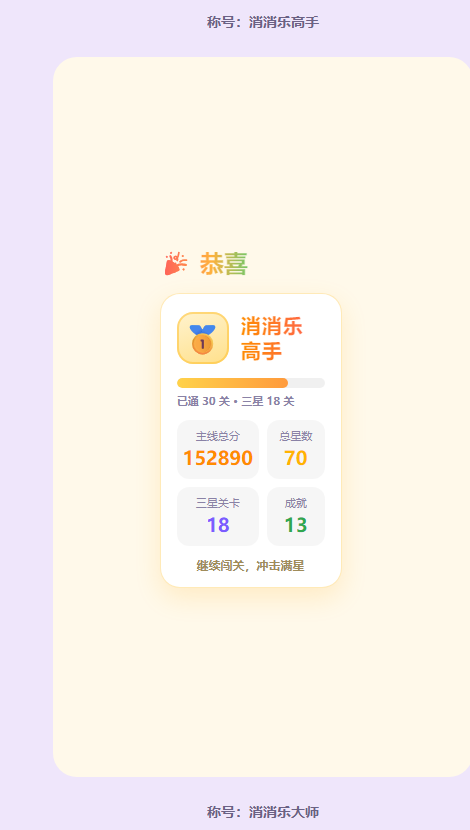
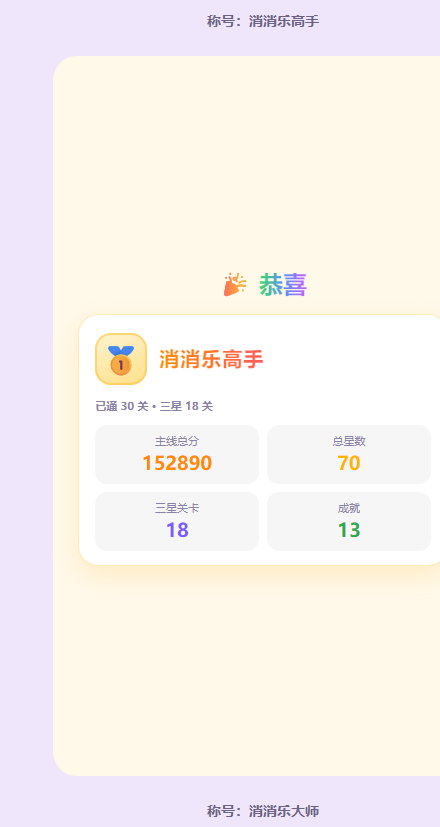
Update files

diff --git a/index.html b/index.html
@@ -12,8 +12,8 @@
 <link rel="preload" as="image" type="image/webp" href="./assets/4.webp">
 <link rel="preload" as="image" type="image/webp" href="./assets/5.webp">
 <link rel="preload" as="image" type="image/png" href="./assets/nailong.png">
-<link rel="stylesheet" href="./css/style.css?v=20261108j">
-<link rel="stylesheet" href="./css/themes.css?v=20261108j">
+<link rel="stylesheet" href="./css/style.css?v=20261108k">
+<link rel="stylesheet" href="./css/themes.css?v=20261108k">
 </head>
 <body data-theme="grass" data-view="menu">
 <div class="game-container">
@@ -760,24 +760,20 @@
 
   <!-- 🎉 恭喜：主线成绩单（关卡记录右下角「结算」键随时可看） -->
   <div class="overlay" id="game-complete" style="display:none;">
-    <div class="master-stage">
-      <h2 class="title small">🎉 恭喜</h2>
-      <div class="master-card">
-        <div class="master-head">
-          <span class="master-crown" id="master-crown">🌱</span>
-          <div class="master-title-box">
-            <b id="master-title">消消乐学徒</b>
-          </div>
+    <h2 class="title small">🎉 恭喜</h2>
+    <div class="master-card">
+      <div class="master-head">
+        <span class="master-crown" id="master-crown">🌱</span>
+        <div class="master-title-box">
+          <b id="master-title">消消乐学徒</b>
         </div>
-        <div class="master-bar"><span id="master-bar-fill"></span></div>
-        <p class="master-progress" id="master-progress">已通 0 关 · 三星 0 关</p>
-        <div class="master-grid">
-          <div class="master-item"><span>主线总分</span><b id="complete-total-score">0</b></div>
-          <div class="master-item"><span>总星数</span><b id="complete-total-stars">0</b></div>
-          <div class="master-item"><span>三星关卡</span><b id="master-perfect">0</b></div>
-          <div class="master-item"><span>成就</span><b id="master-ach">0</b></div>
-        </div>
-        <p class="master-foot" id="master-foot">继续闯关，冲击满星</p>
+      </div>
+      <p class="master-progress" id="master-progress">已通 0 关 · 三星 0 关</p>
+      <div class="master-grid">
+        <div class="master-item"><span>主线总分</span><b id="complete-total-score">0</b></div>
+        <div class="master-item"><span>总星数</span><b id="complete-total-stars">0</b></div>
+        <div class="master-item"><span>三星关卡</span><b id="master-perfect">0</b></div>
+        <div class="master-item"><span>成就</span><b id="master-ach">0</b></div>
       </div>
     </div>
   </div>
@@ -974,22 +970,22 @@
   </div>
 </div>
 
-<script src="./js/rng.js?v=20261108j"></script>
-<script src="./js/storage.js?v=20261108j"></script>
-<script src="./js/audio.js?v=20261108j"></script>
-<script src="./js/effects.js?v=20261108j"></script>
-<script src="./js/specials.js?v=20261108j"></script>
-<script src="./js/goals.js?v=20261108j"></script>
-<script src="./js/tasks.js?v=20261108j"></script>
-<script src="./js/mail.js?v=20261108j"></script>
-<script src="./js/input.js?v=20261108j"></script>
-<script src="./js/builtin-music.js?v=20261108j"></script>
-<script src="./js/music.js?v=20261108j"></script>
-<script src="./js/meta.js?v=20261108j"></script>
-<script src="./js/cloud-config.js?v=20261108j"></script>
-<script src="./js/cloud.js?v=20261108j"></script>
-<script src="./js/account.js?v=20261108j"></script>
-<script src="./js/board.js?v=20261108j"></script>
-<script src="./js/game.js?v=20261108j"></script>
+<script src="./js/rng.js?v=20261108k"></script>
+<script src="./js/storage.js?v=20261108k"></script>
+<script src="./js/audio.js?v=20261108k"></script>
+<script src="./js/effects.js?v=20261108k"></script>
+<script src="./js/specials.js?v=20261108k"></script>
+<script src="./js/goals.js?v=20261108k"></script>
+<script src="./js/tasks.js?v=20261108k"></script>
+<script src="./js/mail.js?v=20261108k"></script>
+<script src="./js/input.js?v=20261108k"></script>
+<script src="./js/builtin-music.js?v=20261108k"></script>
+<script src="./js/music.js?v=20261108k"></script>
+<script src="./js/meta.js?v=20261108k"></script>
+<script src="./js/cloud-config.js?v=20261108k"></script>
+<script src="./js/cloud.js?v=20261108k"></script>
+<script src="./js/account.js?v=20261108k"></script>
+<script src="./js/board.js?v=20261108k"></script>
+<script src="./js/game.js?v=20261108k"></script>
 </body>
 </html>

diff --git a/js/tasks.js b/js/tasks.js
@@ -6,19 +6,16 @@
   'use strict';
 
   const POOL = [
-    // 简单 20 金币
-    { id: 'win1', desc: '通过 1 关', target: 1, reward: 20, event: 'win' },
+    { id: 'match4', desc: '完成 3 次 4 连消除', target: 3, reward: 80, event: 'match4' },
+    { id: 'bomb', desc: '触发 2 次炸弹', target: 2, reward: 80, event: 'bomb' },
+    { id: 'combo4', desc: '单局连击达到 x4', target: 1, reward: 120, event: 'combo4' },
     { id: 'combo3', desc: '单局连击达到 x3', target: 1, reward: 20, event: 'combo3' },
-    // 中等 40 金币
-    { id: 'play3', desc: '完成 3 局游戏', target: 3, reward: 40, event: 'play' },
-    { id: 'bomb', desc: '触发 2 次炸弹', target: 2, reward: 40, event: 'bomb' },
-    { id: 'match4', desc: '完成 3 次 4 连消除', target: 3, reward: 40, event: 'match4' },
-    { id: 'line', desc: '触发 3 次线消', target: 3, reward: 40, event: 'line' },
-    // 困难 60 金币
-    { id: 'combo4', desc: '单局连击达到 x4', target: 1, reward: 60, event: 'combo4' },
-    { id: 'rainbow', desc: '触发 1 次彩虹', target: 1, reward: 60, event: 'rainbow' },
-    { id: 'jelly', desc: '清除 15 格果冻', target: 15, reward: 60, event: 'jelly' },
-    { id: 'score5000', desc: '累计获得 5000 分', target: 5000, reward: 60, event: 'score' }
+    { id: 'win1', desc: '通过 1 关', target: 1, reward: 20, event: 'win' },
+    { id: 'jelly', desc: '清除 15 格果冻', target: 15, reward: 100, event: 'jelly' },
+    { id: 'play3', desc: '完成 3 局游戏', target: 3, reward: 60, event: 'play' },
+    { id: 'score5000', desc: '累计获得 5000 分', target: 5000, reward: 150, event: 'score' },
+    { id: 'rainbow', desc: '触发 1 次彩虹', target: 1, reward: 120, event: 'rainbow' },
+    { id: 'line', desc: '触发 3 次线消', target: 3, reward: 90, event: 'line' }
   ];
 
   // 商店（§7）
@@ -39,25 +36,6 @@
   // 每天出几个任务
   const DAILY_COUNT = 5;
 
-  // 「每个面值都最少有一个」：按 20 / 40 / 60 三档先各抽一个，剩下的名额从全部剩余里补
-  function pickDaily(rng, prevIds) {
-    const tiers = [20, 40, 60];
-    const groups = {};
-    tiers.forEach((r) => {
-      groups[r] = rng.shuffle(POOL.filter((p) => p.reward === r).slice());
-      // 上一批出过的压到队尾
-      groups[r].sort((a, b) =>
-        (prevIds.indexOf(a.id) >= 0 ? 1 : 0) - (prevIds.indexOf(b.id) >= 0 ? 1 : 0));
-    });
-    const picked = tiers.map((r) => groups[r].shift());
-    const rest = rng.shuffle(tiers.reduce((arr, r) => arr.concat(groups[r]), []));
-    // 补位时同样把上一批出过的压到队尾，尽量整批换新
-    rest.sort((a, b) =>
-      (prevIds.indexOf(a.id) >= 0 ? 1 : 0) - (prevIds.indexOf(b.id) >= 0 ? 1 : 0));
-    while (picked.length < DAILY_COUNT && rest.length) picked.push(rest.shift());
-    return rng.shuffle(picked);
-  }
-
   // 保证今天的任务已生成（同一日期固定，不随刷新变化）
   function ensureToday() {
     const s = Store.getTaskState();
@@ -65,11 +43,14 @@
     if (s.date === today && Array.isArray(s.list) && s.list.length === DAILY_COUNT) return s;
 
     // 「每天的任务尽量不要一样」：把上一批出过的任务压到候选队尾，
-    // 池子有 10 个、每天抽 5 个，通常能整批换新
+    // 池子有 10 个、每天抽 5 个，剩下的没出过的通常正好够 5 个 → 整批换新
     const prevIds = (Array.isArray(s.list) && s.date && s.date !== today)
       ? s.list.map((t) => t.id) : [];
     const rng = RNG.source(RNG.seedFromDate(new Date()));
-    const picked = pickDaily(rng, prevIds);
+    const shuffled = rng.shuffle(POOL.slice());
+    shuffled.sort((a, b) =>
+      (prevIds.indexOf(a.id) >= 0 ? 1 : 0) - (prevIds.indexOf(b.id) >= 0 ? 1 : 0));
+    const picked = shuffled.slice(0, DAILY_COUNT);
     s.date = today;
     s.list = picked.map((p) => ({
       id: p.id,

diff --git a/test-smoke.js b/test-smoke.js
@@ -2076,17 +2076,16 @@ function check(name, ok) {
       w1 && w1.reward === 20 && w1.event === 'win' &&
       sandbox.Tasks.getToday().length === 5;
   })());
-  check('每日任务奖励只有 20/40/60 三档，按难度分档，每天每档至少一个', (() => {
+  check('每日任务奖励恢复原面值（20~150 不限档位），combo3 / win1 仍是 20', (() => {
     const pool = sandbox.Tasks.POOL;
-    const tiers = [20, 40, 60];
-    if (!pool.every((p) => tiers.indexOf(p.reward) >= 0)) return false;
-    if (!tiers.every((r) => pool.some((p) => p.reward === r))) return false;
-    const easy = pool.filter((p) => p.reward === 20).map((p) => p.id);
-    const hard = pool.filter((p) => p.reward === 60).map((p) => p.id);
-    if (easy.indexOf('win1') < 0 || easy.indexOf('combo3') < 0) return false;
-    if (['combo4', 'rainbow', 'jelly', 'score5000'].some((x) => hard.indexOf(x) < 0)) return false;
-    const today = sandbox.Tasks.getToday();
-    return today.length === 5 && tiers.every((r) => today.some((t) => t.reward === r));
+    const by = (id) => pool.find((p) => p.id === id);
+    return pool.length === 10 &&
+      by('win1').reward === 20 && by('combo3').reward === 20 &&
+      by('play3').reward === 60 && by('match4').reward === 80 &&
+      by('bomb').reward === 80 && by('line').reward === 90 &&
+      by('jelly').reward === 100 && by('combo4').reward === 120 &&
+      by('rainbow').reward === 120 && by('score5000').reward === 150 &&
+      sandbox.Tasks.getToday().length === 5;
   })());
   check('结算秒弹：特效一停立刻放行，不再垫固定延时', (() => {
     const fn = jsSrc.slice(jsSrc.indexOf('async function waitForEffects'), jsSrc.indexOf('async function handleOutOfResource'));
@@ -2133,13 +2132,13 @@ function check(name, ok) {
       /'auth-menu', 'auth-form', 'fix-menu', 'nick-menu', 'cloud-menu'\]\.indexOf\(ov\.id\) >= 0/
         .test(fs.readFileSync(path.join(__dirname, 'js', 'music.js'), 'utf8'));
   })());
-  check('成绩单：框框严格居中（master-stage 包裹）、进度条 1.4s 恒定慢速动画', (() => {
+  check('成绩单：恢复原始形状（无 master-stage 包裹、无底部文案、无进度线）', (() => {
     const gc = htmlSrc.slice(htmlSrc.indexOf('id="game-complete"'), htmlSrc.indexOf('id="chapters-menu"'));
-    return gc.includes('master-stage') &&
-      /#game-complete \.master-stage \{/.test(cssSrc) &&
-      /transition: width 1\.4s linear/.test(cssSrc) &&
-      /fill\.style\.transition = 'none'/.test(jsSrc) &&
-      /void fill\.offsetWidth/.test(jsSrc);
+    return !gc.includes('master-stage') && !gc.includes('master-foot') &&
+      !gc.includes('master-bar') &&
+      !gc.includes('继续闯关') && !gc.includes('满分毕业') &&
+      !/#game-complete \.master-stage \{/.test(cssSrc) && !/\.master-foot \{/.test(cssSrc) &&
+      !/\.master-bar \{/.test(cssSrc) && !/master-bar-fill/.test(jsSrc);
   })());
   check('每日任务尽量不重样：上一批出过的排到候选队尾，通常整批换新', (() => {
     const saved = lsMap.get('nl2:tasks');
@@ -2242,7 +2241,7 @@ function check(name, ok) {
   check('成绩单标题改成「🎉 恭喜」，没有副标题、四格数字都滚动', (() => {
     const fn = jsSrc.slice(jsSrc.indexOf('function showCompletePanel'), jsSrc.indexOf('function levelHasCandy'));
     return !htmlSrc.includes('恭喜全通关') && htmlSrc.includes('🎉 恭喜') &&
-      htmlSrc.includes('id="master-title"') && htmlSrc.includes('id="master-bar-fill"') &&
+      htmlSrc.includes('id="master-title"') && !htmlSrc.includes('id="master-bar-fill"') &&
       htmlSrc.includes('id="complete-total-score"') && htmlSrc.includes('id="complete-total-stars"') &&
       htmlSrc.includes('id="master-perfect"') && htmlSrc.includes('id="master-ach"') &&
       !htmlSrc.includes('id="master-sub"') && !fn.includes('master-sub') &&

diff --git a/_preview/master-titles.html b/_preview/master-titles.html
@@ -8,7 +8,7 @@
   body { margin: 0; background: #efe6fb; display: flex; flex-direction: column; align-items: center; gap: 26px; padding: 22px 0; }
   .cap { font-size: 14px; color: #6b6285; font-weight: 700; margin: 0; }
   /* 模拟 #game-complete 面板（尺寸对齐手机竖屏） */
-  .gc { width: 420px; height: 720px; border-radius: 24px; display: flex; align-items: center; justify-content: center; position: relative; overflow: hidden; }
+  .gc { width: 420px; height: 720px; border-radius: 24px; display: flex; flex-direction: column; align-items: center; justify-content: center; position: relative; overflow: hidden; }
   .gc.t0 { background: #f6f4fa; }
 </style>
 </head>
@@ -36,20 +36,16 @@ TITLES.forEach((t) => {
   gc.className = 'gc';
   gc.style.background = t.bg;
   gc.innerHTML =
-    '<div class="master-stage">' +
-      '<h2 class="title small">🎉 恭喜</h2>' +
-      '<div class="master-card">' +
-        '<div class="master-head"><span class="master-crown">' + t.crown + '</span>' +
-        '<div class="master-title-box"><b>' + t.name + '</b></div></div>' +
-        '<div class="master-bar"><span style="transition:none;width:' + Math.round(t.ratio * 100) + '%"></span></div>' +
-        '<p class="master-progress">已通 ' + t.cleared + ' 关 · 三星 ' + t.perfect + ' 关</p>' +
-        '<div class="master-grid">' +
-          '<div class="master-item"><span>主线总分</span><b>' + t.score + '</b></div>' +
-          '<div class="master-item"><span>总星数</span><b>' + t.stars + '</b></div>' +
-          '<div class="master-item"><span>三星关卡</span><b>' + t.perfect + '</b></div>' +
-          '<div class="master-item"><span>成就</span><b>' + t.ach + '</b></div>' +
-        '</div>' +
-        '<p class="master-foot">' + t.foot + '</p>' +
+    '<h2 class="title small">🎉 恭喜</h2>' +
+    '<div class="master-card">' +
+      '<div class="master-head"><span class="master-crown">' + t.crown + '</span>' +
+      '<div class="master-title-box"><b>' + t.name + '</b></div></div>' +
+      '<p class="master-progress">已通 ' + t.cleared + ' 关 · 三星 ' + t.perfect + ' 关</p>' +
+      '<div class="master-grid">' +
+        '<div class="master-item"><span>主线总分</span><b>' + t.score + '</b></div>' +
+        '<div class="master-item"><span>总星数</span><b>' + t.stars + '</b></div>' +
+        '<div class="master-item"><span>三星关卡</span><b>' + t.perfect + '</b></div>' +
+        '<div class="master-item"><span>成就</span><b>' + t.ach + '</b></div>' +
       '</div>' +
     '</div>';
   wrap.appendChild(cap);

diff --git a/css/themes.css b/css/themes.css
@@ -2151,38 +2151,8 @@ body[data-skin="black"]   { --skin-target-bg: rgba(255, 143, 171, 0.22); }
   font-size: 11px;
   color: #9a93ad;
 }
-.master-bar {
-  height: 10px;
-  margin: 14px 0 6px;
-  border-radius: 999px;
-  background: rgba(0, 0, 0, 0.06);
-  overflow: hidden;
-}
-.master-bar span {
-  display: block;
-  height: 100%;
-  width: 0;
-  border-radius: 999px;
-  background: linear-gradient(90deg, #ffd24a, #ff9a3c);
-  /* 进度条动画时长恒定（1.4s 匀速），和进度大小无关——每次打开都慢慢爬到位置 */
-  transition: width 1.4s linear;
-}
-/* 成绩单居中：框框（master-card）严格落在屏幕正中，「🎉 恭喜」悬在框上方 */
-#game-complete .master-stage {
-  position: relative;
-  display: flex;
-  align-items: center;
-  justify-content: center;
-}
-#game-complete .master-stage > .title.small {
-  position: absolute;
-  bottom: calc(100% + 8px);
-  left: 0;
-  right: 0;
-  margin: 0;
-}
 .master-progress {
-  margin: 0 0 12px;
+  margin: 14px 0 12px;
   font-size: 11px;
   font-weight: 700;
   color: #8a82a6;
@@ -2212,13 +2182,6 @@ body[data-skin="black"]   { --skin-target-bg: rgba(255, 143, 171, 0.22); }
 .master-item:nth-child(2) b { color: #ffb400; }
 .master-item:nth-child(3) b { color: #7c5cff; }
 .master-item:nth-child(4) b { color: #2fa84f; }
-.master-foot {
-  margin: 12px 0 0;
-  font-size: 12px;
-  font-weight: 700;
-  color: #a08c5a;
-  text-align: center;
-}
 
 /* ================= 🏅 成就奖励（红点 / 奖杯详情） ================= */
 /* 主页「🏅 成就」键右上角的小红点：有奖没领就亮 */

diff --git a/js/game.js b/js/game.js
@@ -3021,30 +3021,12 @@
     setText('master-title', title);
     // 不写「/ 总数」：只说已经拿到多少
     setText('master-progress', '已通 ' + cleared + ' 关 · 三星 ' + perfect + ' 关');
-    const fill = $('master-bar-fill');
-    if (fill) {
-      // 进度条动画与进度无关：每次打开先归零，再用恒定 1.4s 匀速爬到目标位置
-      fill.style.transition = 'none';
-      fill.style.width = '0%';
-      void fill.offsetWidth;            // 强制回流，保证从 0 起跳
-      fill.style.transition = '';       // 交还给 CSS 的 1.4s linear
-      fill.style.width = Math.round(ratio * 100) + '%';
-    }
 
     // 成就：已经点亮的枚数
     let achGot = 0;
     try {
       achGot = Meta.ACHIEVEMENTS.filter((a) => Meta.tierOf(a.id) >= 1).length;
     } catch (e) {}
-
-    // 底部一句话：通关以后不再报差多少关（也不写毕业口吻的话）
-    let foot = '继续闯关，冲击满星';
-    if (cleared >= total) foot = (perfect >= total) ? '全部三星，满分毕业 🎉' : '';
-    const footEl = $('master-foot');
-    if (footEl) {
-      footEl.textContent = foot;
-      footEl.style.display = foot ? 'block' : 'none';
-    }
 
     // 四格数字全部滚动，时长一致（900ms）
     const pf = $('master-perfect'), ac = $('master-ach');

diff --git a/README.md b/README.md
@@ -21,7 +21,7 @@
 - **其他**：连击倍率（**连击窗口 1600ms** `COMBO_WINDOW`，停手一拍连击就断）、4 连击狂热（6 秒双倍；表现是**棋盘正下方**一枚静态倒计时小标「🔥 双倍 Ns」（`.frenzy-slot` 固定占位，出现 / 消失都不挤动棋盘），逐秒递减，棋盘不做呼吸闪动 / 亮度变化，避免看着晃眼）、每局 3 次提示（照着高亮的交换走那一步、洗牌或撤回后 `clearHint()` 立刻收掉高亮框）、失败可花金币续命、可撤回、切后台自动暂停、1~3 星。中央连击弹窗只停留 620ms（`COMBO_DECAY`），淡出 0.16s，不长时间挡棋盘。全局提示条（toast）停留 3 秒。后台「全服玩家 / 省份」搜索框**区分大小写**（输 `yone` 不再匹配 `YONE`）。步数 / 时间用完**绝不自动消耗背包道具**（`autoUseLeftoverItems` 已整体删除），只保留花金币续命的机会。过关时还有剩余步数 / 剩余时间，结算面板会多一个**绿色**的「还有剩余步数／秒数点击继续游戏」按钮（限时关点完 `startTimer()` 继续跑表，时间到 = 第二次结算 `levelWin(true)`，不是失败）；失败标题限时关写「时间到了」，步数关写「步数耗尽」。主页「📍 当前进度」跟随最后进入的关卡（`startLevel` 写入 `settings.menuLevel`），从哪关出去主页就停在哪关。关卡记录和章节地图打开时都会把当前关卡平滑滑到列表中间；主页不可上下滚动；所有滑动区域不显示滚动条灰线。
 - **章节奖励**：一章（`levels.json` 的 `chapters`，每章 10 关）全部拿到星 → 自动往邮箱发一封「恭喜通过第X章」，附件 **200 金币**，玩家自己点「领取」（`Mail.sendMail`，id 固定 `chapter-clear-N` 不会重复发）。入口在 `grantChapterMails()`：过关结算（`levelWin`）和打开主页（`refreshMenu`）各调一次，所以老玩家之前通过的章节会一次性补齐。
 - **商店 / 背包**：`Tasks.SHOP` 顺序即商店与背包的显示顺序：+3 步（300）、**+7s（300，限时关专用 `extraTime`，排在 +3 步下面；步数关点「使用」只提示、不扣道具；+3 步反过来在限时关也用不了）**、洗牌 +1（150）、撤回 +1（150）、开局线消 / 开局炸弹（200）、彩虹（500）。默认背包 `DEFAULT_ITEMS` 已带上 `extraTime: 0`，老存档缺字段按 0 处理。
-- **每日任务**：任务池 10 个（4 连消除 / 炸弹 / 单局连击 x4 / 单局连击 x3 / 通过 1 关 / 清 15 格果冻 / 完成 3 局 / 累计 5000 分 / 触发彩虹 / 触发 3 次线消），每天按日期种子抽 **5** 个；**上一批出过的任务压到候选队尾**，池子里没出过的通常正好 5 个 → **每天尽量整批换新**。**奖励只有 20 / 40 / 60 三档、按难度分**：20 = 通过 1 关 / 单局连击 x3，40 = 完成 3 局 / 炸弹 / 4 连消除 / 线消，60 = 单局连击 x4 / 彩虹 / 果冻 / 5000 分；**每天抽 5 个时每档至少一个**（先各档抽 1 再补位，`pickDaily`）。**货物送达也计分：每件 +150**（`deliverCargo`，浮字带「+150」）。任务面板**没有签到区**（签到去主页「🎁 签到入口」）。
+- **每日任务**：任务池 10 个（4 连消除 / 炸弹 / 单局连击 x4 / 单局连击 x3 / 通过 1 关 / 清 15 格果冻 / 完成 3 局 / 累计 5000 分 / 触发彩虹 / 触发 3 次线消），每天按日期种子抽 **5** 个；**上一批出过的任务压到候选队尾**，池子里没出过的通常正好 5 个 → **每天尽量整批换新**。奖励按任务难度各给各的（20 / 20 / 60 / 80 / 80 / 90 / 100 / 120 / 120 / 150，不限制档位）。**货物送达也计分：每件 +150**（`deliverCargo`，浮字带「+150」）。任务面板**没有签到区**（签到去主页「🎁 签到入口」）。
 - **结算秒弹 / 遮罩关闭（2026-11-08）**：目标达成或步数 / 时间用完 → `waitForEffects()` 只等「真的在播的特效」（起音垫 30ms、50ms 轮询、2s 兜底），特效一停立刻弹结算，不再垫固定 80ms。**遮罩点背景关闭有两套绑定**：`game.js` 的（§25）和 `music.js` 里重命名面板那套——**两边的排除列表必须一致**（main-menu / level-clear / game-over / game-complete / auth-menu / auth-form / fix-menu / nick-menu / cloud-menu），否则登录页会被 music.js 那套关掉（这次就踩了：game.js 排除了 auth-menu，music.js 没排除 → 登录页点背景还是能退出）；登录 / 注册页还加了捕获阶段 `stopPropagation` 双保险。
 - **合成 BGM 音质（2026-11-08）**：主音 / 低音 / 鼓点的增益起音全部加短爬坡（`setValueAtTime(0.0001, t0)` → `exponentialRampToValueAtTime(峰值, t0+0.02)`）——正弦波在非零相位从 0 直接跳到峰值会每 250ms「咔哒」一声，整条 BGM 听着发脏。
 - **内容**：主线 40 关 4 章；更多玩法（无尽 / 60 秒 / 节奏）；每日挑战（日期做种子）；成就 25 枚五阶、棋盘配色 8 款（第 8 款「彩色」：光晕为柔彩虹渐变，列表里所有配色图标都是 20px 铺满小方块，彩色用 assets/rainbow.jpg 彩虹图，其余用对应纯色）、签到入口（日期条签到 + 转盘）、排行榜（总榜 / 省榜 / 局榜）。章节剧情过场只有「继续前进」一个键（原来的「跳过剧情」已删）。帮助入口叫 **📖 说明**：先选「🧩 功能介绍」或「🎮 玩法说明」；**改名属于功能**，写在功能介绍里（主页左上角 🏠 主页键 →「✏ 改名」）。
@@ -31,7 +31,7 @@
 - **糖果货物（第四章开始）**：运送关（`cargo > 0`）的货物从 **id ≥ 31（第四章）** 起混入糖果：`putCargo` 一半钥匙 + 一半糖果（`placeObstacles` 里按 `Math.ceil/floor` 拆分），糖果徽标 `drawCandyMark()` 纯 Canvas 路径画（圆糖体 + 两端分叉糖纸 + 斜条纹 + 黑描边 + 粉色呼吸光），送达浮字是「送达 🍬」。目标数照常按「总送达数」算（`syncGoalFromBoard` 里糖果和钥匙同走 `else` 分支），目标栏文案在 `S.goal.hasCandy` 时从「运送钥匙」换成「运送糖果 🍬」（`goals.js barText`）。
 - **货物掉落规则（2026-11-07 二次修改）**：货物所在方块被消时，它**落到本列下面离它最近的一个没被消掉的方块上**（`resolveClear` 里在 `dropAndFill()` 之前落位——放在重力后面找就只能找到最底行，会退化成直接送达），之后跟着那个方块被重力一步步往下带，真的到了最底行（`collectCargo`）才算送达；**被消的那一刻下面一个方块都没有（整列空了）才直接算运送成功**。送达结算统一走新抽出的 `deliverCargo(items, c)`（浮字 / 音效 / `cargoLeft` / 目标推进），底行收集和「无方块直送」共用这一份。旧的「直达最底行 = 直接送达」逻辑和测试（17c / 26）已按新规则改写，并补了「整列没方块直送」的测试（26b）。
 - **运送进度存档恢复**：暂停 / 中途退出再续玩，目标栏仍是原来的进度（如「运送钥匙 1/7」），不会变成「棋盘上有几个就 0/几」——`saveRun` 的 `goalCurrent` 现在连 `iceCleared` / `cargoGot` / `rescueGot` 一起存，`loadRun` 原样恢复后再 `syncGoalFromBoard()`（target = 已送达 + 场上剩），不再把已送达数清零重算；没有这些字段的老存档保持旧的清零兜底。
-- **「🎉 恭喜」成绩单（2026-11-08 三改）**：结算画面不再是「恭喜全通关」的毕业页——关卡记录右下角常驻的「结算」键（`#btn-replay-ending`，小号黄色胶囊，右下角 16px）随时能进来，所以页面标题就叫 **🎉 恭喜**，做成一份随时可看的主线成绩单：称号（学徒 → 新星 → 达人 → 高手 → 大师 → 全三星「宗师」，不再带副标题一句话）+ 通关进度条 + 四格数据（主线总分 / 总星数 / 三星关卡 / 成就点亮数，**四个数字全部 900ms 同时长滚动**）。**文案里不写「/ 总数」也不写毕业口吻**：进度写「已通 X 关 · 三星 X 关」，三星关卡和成就只写自己拿到的数，底部只有「继续闯关，冲击满星」或全三星时的「全部三星，满分毕业 🎉」。数据每次打开都按最新存档现算（`showCompletePanel`）。**布局 2026-11-08 调整：卡片（`.master-card`）严格落在屏幕正中（`.master-stage` 包裹 + 标题 `position:absolute` 悬在框上方）**；**进度条动画与进度无关：每次打开先归零（`transition:none` + 强制回流）再以恒定 1.4s 匀速爬到目标位**。最后一关打完也不再自动弹这个画面；面板上没有「回到主页」键，点任意处退出回「关卡记录」。
+- **「🎉 恭喜」成绩单（2026-11-08 三改）**：结算画面不再是「恭喜全通关」的毕业页——关卡记录右下角常驻的「结算」键（`#btn-replay-ending`，小号黄色胶囊，右下角 16px）随时能进来，所以页面标题就叫 **🎉 恭喜**，做成一份随时可看的主线成绩单：称号（学徒 → 新星 → 达人 → 高手 → 大师 → 全三星「宗师」，不再带副标题一句话）+ 四格数据（主线总分 / 总星数 / 三星关卡 / 成就点亮数，**四个数字全部 900ms 同时长滚动**）。**页面只有标题 + 一张白卡片，卡片保持原来的形状（88% 宽 / 20px 圆角 / 原内边距，不额外包裹、不改尺寸）**，卡片垂直居中、标题在卡片上方；**没有进度线**（按你的要求已删）、**没有底部文案**。**文案里不写「/ 总数」也不写毕业口吻**：进度写「已通 X 关 · 三星 X 关」，三星关卡和成就只写自己拿到的数。数据每次打开都按最新存档现算（`showCompletePanel`）。最后一关打完也不再自动弹这个画面；面板上没有「回到主页」键，点任意处退出回「关卡记录」。
 - **榜单列对齐（2026-11-08 改固定列）**：榜单行不再用 flex（名字长短 / 星星位数会把后面的列挤偏），改成**固定列宽的 grid**：`.lb-swipe.col4` = 名次 26px · 名字自适应 · 42px 空档 · 星星 40px · 分数 **6ch**，列间 8px；星星列、分数列内容都左对齐 → **星星左边缘一条竖线、分数左边缘一条竖线**，任何名字、任何位数都不会挤偏。中间的空档让**星星和分数整体往右挪**（28px 空档 = 三个字，之后**又把星星列再往右挪了「榜一星星与分数空档的一半」≈ 14px**：空档 28→42、星星列 54→40）。**分数列宽 = 6ch（六位数的榜一正好填满整列）**：榜一（最高分 = 最宽分数）的右缘贴住行内边距——「榜一分数右缘距行背景右边缘 12px」和左边「名次距行背景左边缘 12px」**左右对称**；空星行的星星格也占位，「未上榜」写在分数列里。后台名单（col5）同款：空档 24→34、星星列 48→38。
 - **名字长度**：客户端 `Meta.validateNick` 与服务端 `NICK_MAX` 都是 **1~8 个字符**（一个字母或符号各算一个，提示统一写「1~8 个字符」）。
 - **结算音效与画面同拍**：通关 `levelWin` 的星星音效、失败 `endGame` 的 gameover 音效都改为**在结算面板 `display:flex` 之后**才播（`winSfx()` / `endSfx()`，无面板时兜底直接播）；之前是提前 180ms 或特效等待前就响，听着比画面早半拍。
